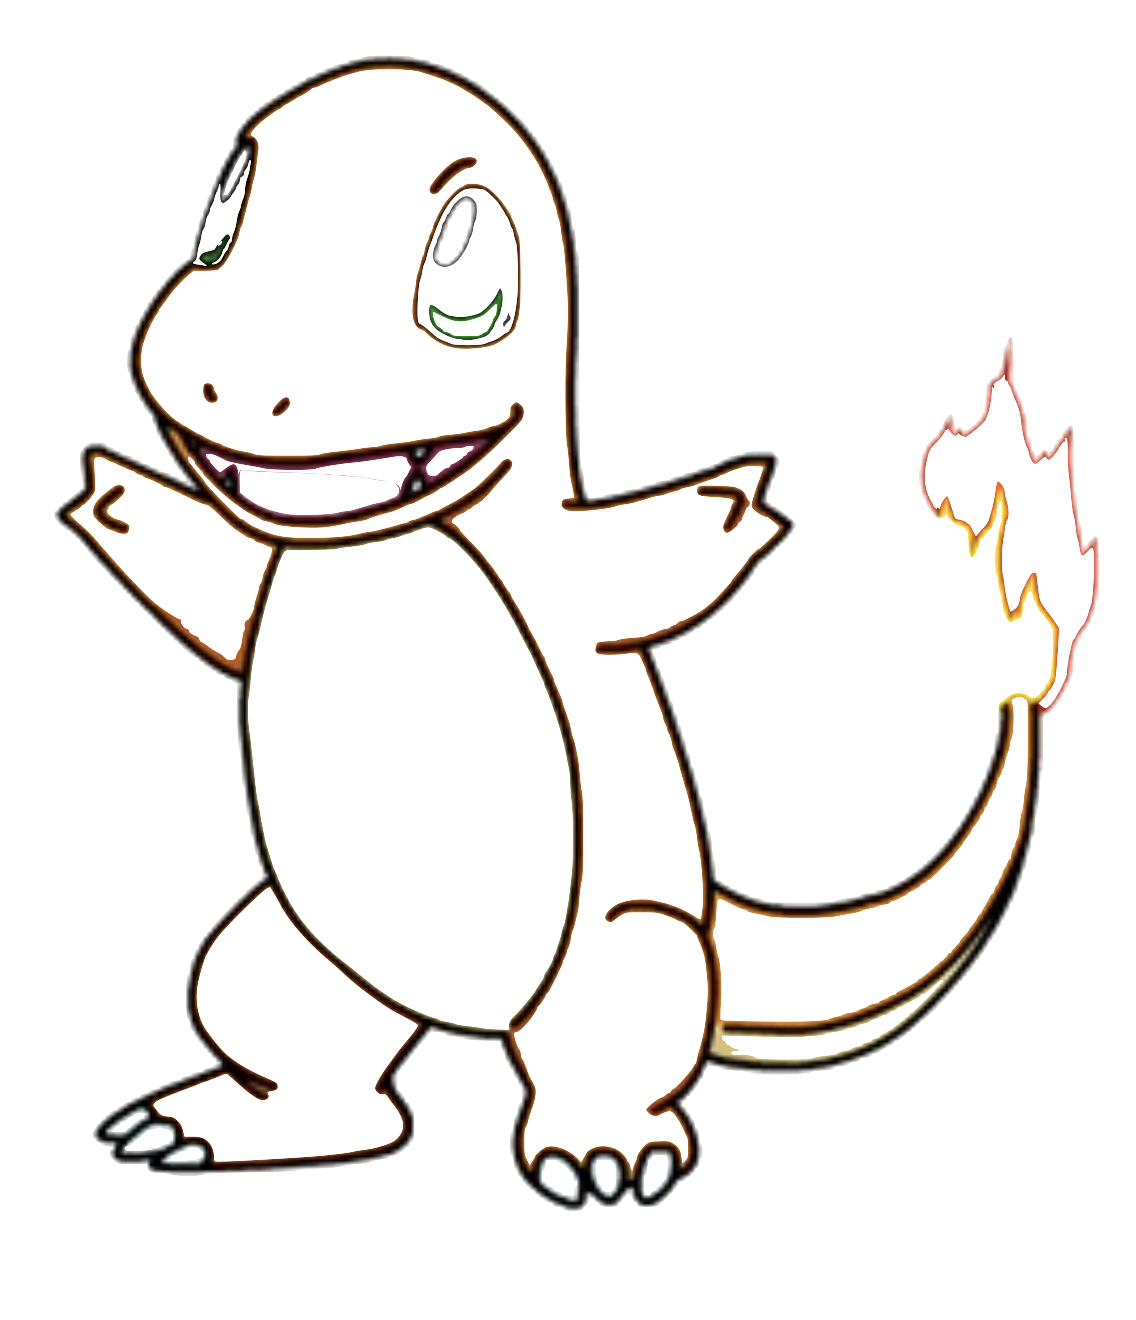
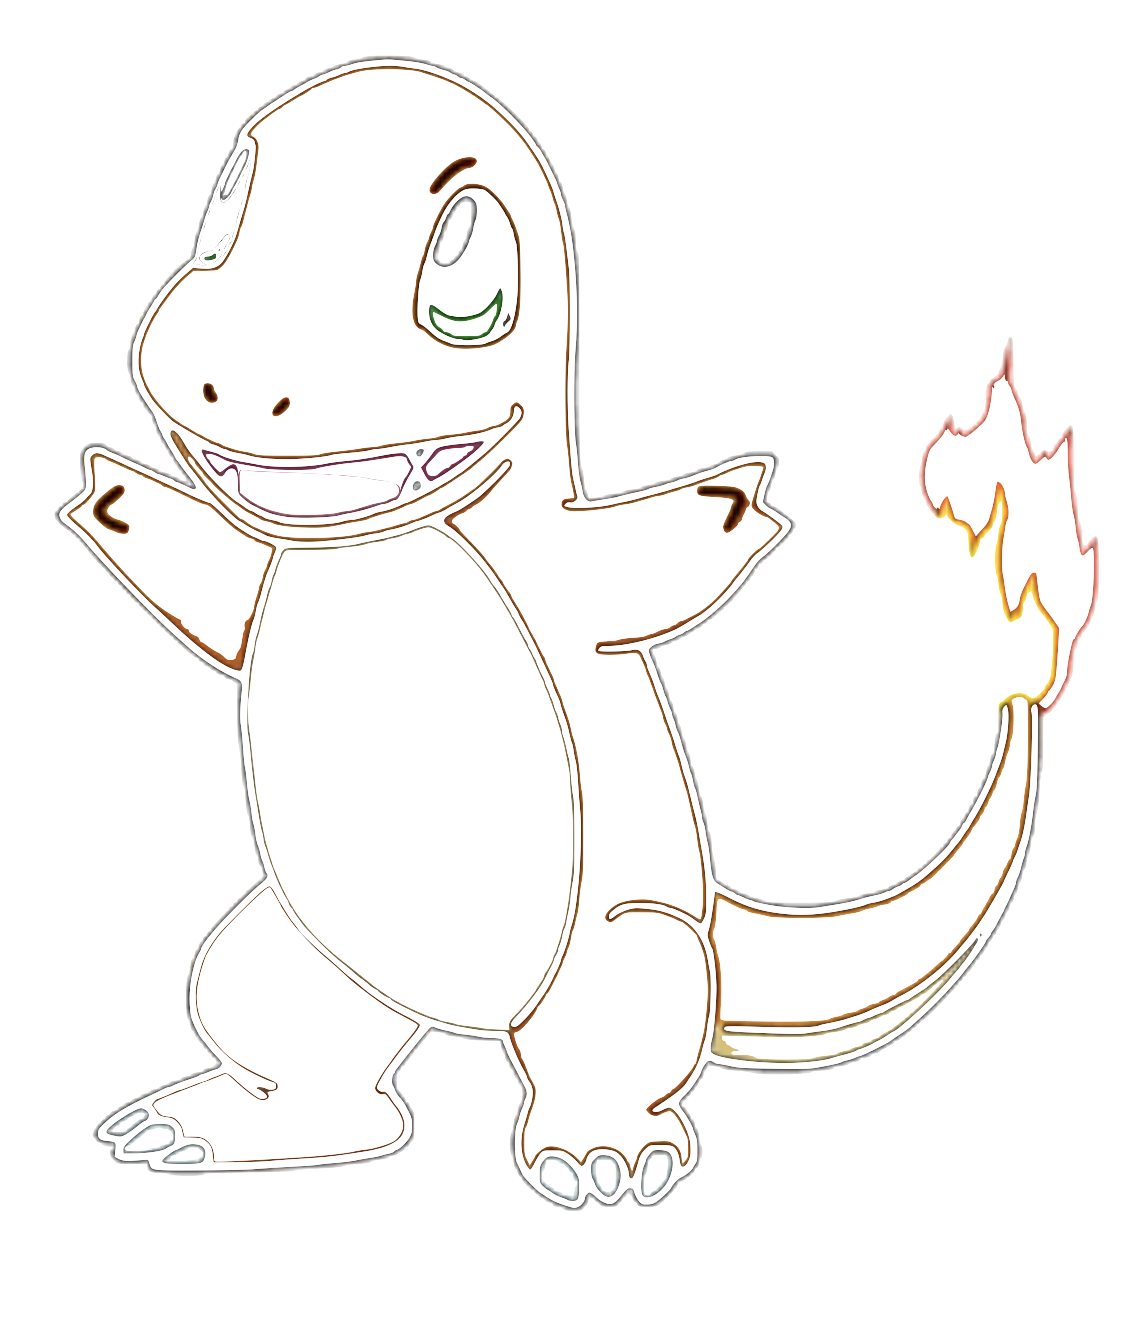
Updated Charmander outline again

diff --git a/sketch.js b/sketch.js
@@ -15,7 +15,7 @@ let hour_scaleFactor = 0;
 
 function preload() {
 	img = loadImage('charmander_png.png');
-	img_outline = loadImage('charmander_outline.png');
+	img_outline = loadImage('charmander_outline2.png');
 	minute_img = loadImage('charmeleon.png');
 	minute_outline = loadImage('charmeleon_outline.png');
 	hour_img = loadImage('charizard.png');
